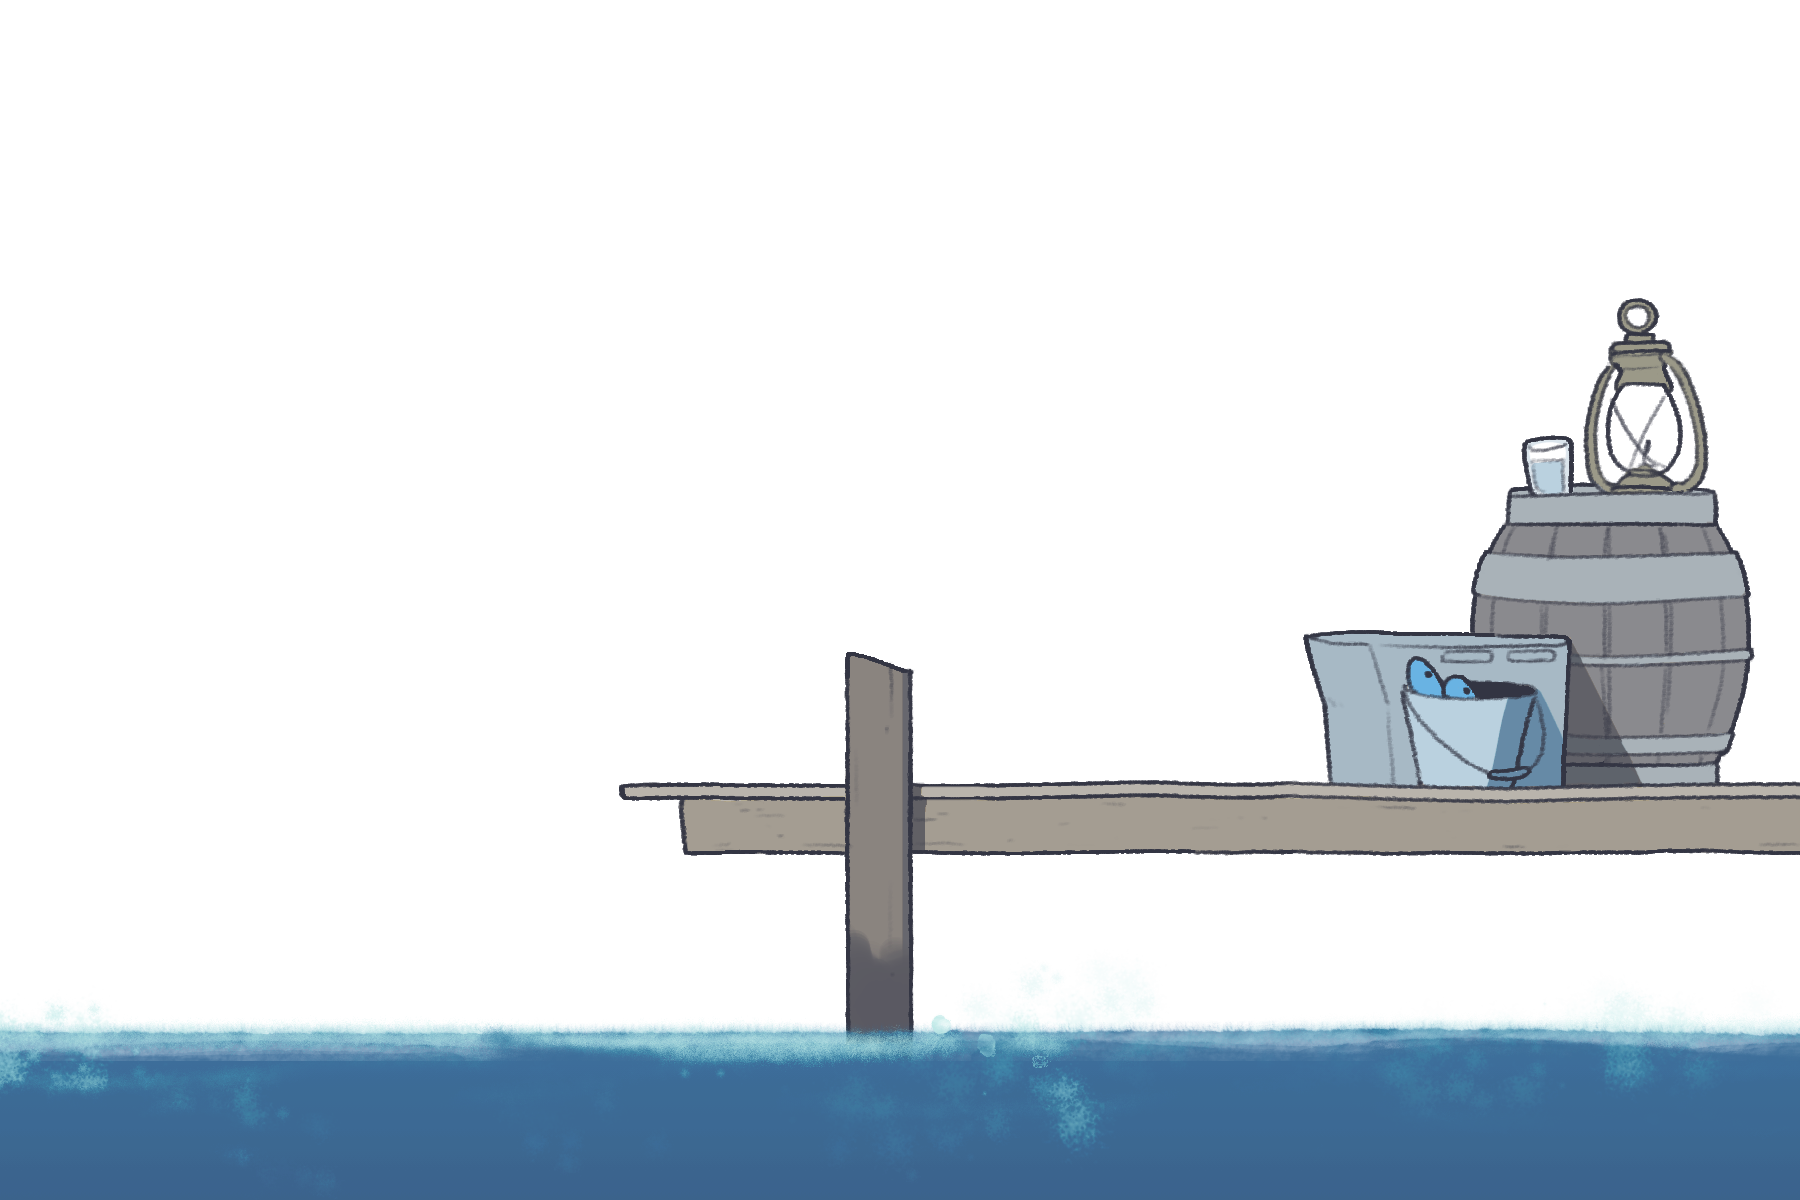
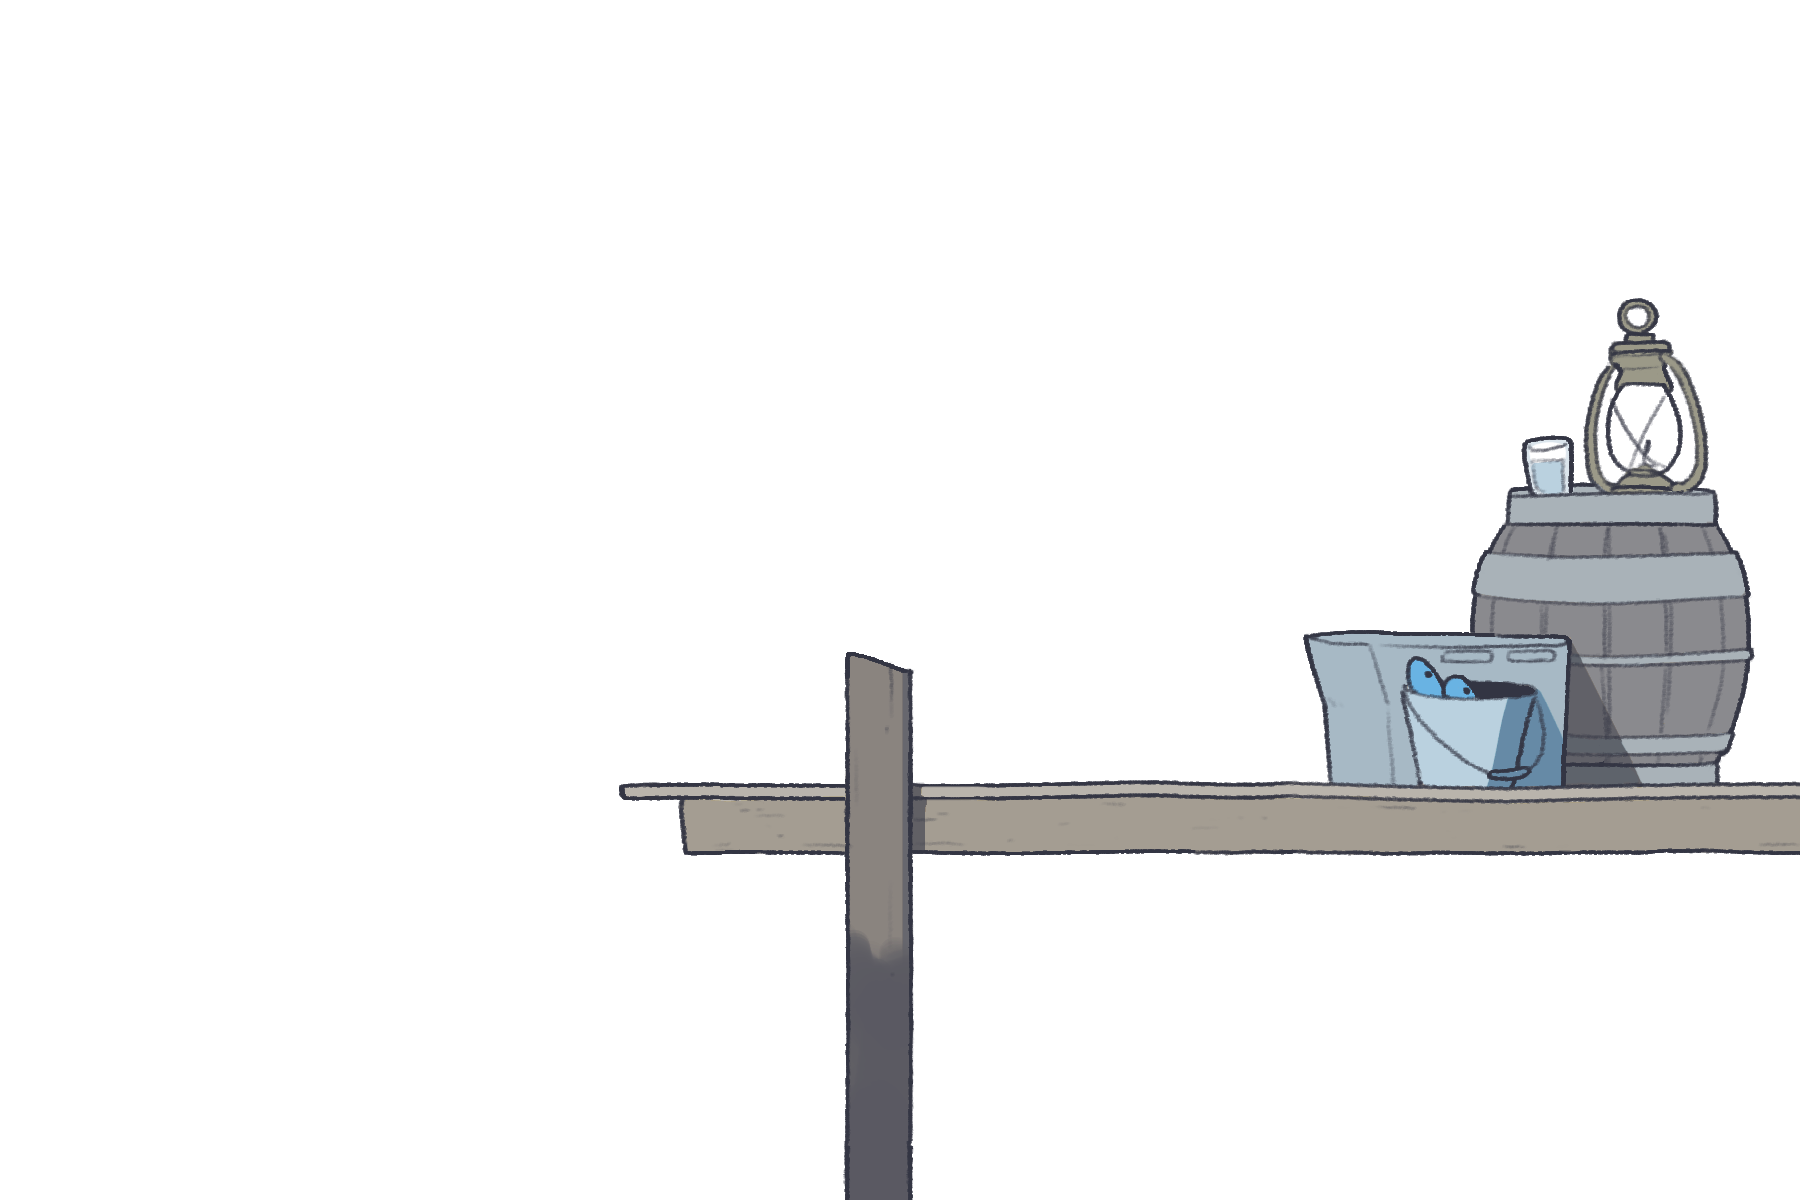
polish navmenu games section / add hover logic

Changed region(s): [[0.0, 0.8325, 1.0, 1.0]]

diff --git a/components/NavMenu.tsx b/components/NavMenu.tsx
@@ -176,6 +176,12 @@ const NavMenu = () => {
     menuRef.current.style.gridTemplateColumns = cols[link];
     }
 
+    if (link === "games") {
+      setFished(true)
+    } else {
+      setFished(false)
+    }
+
   };
 
   useEffect(() => {
@@ -258,6 +264,8 @@ const NavMenu = () => {
   }, [])
 
   const onComic = pathname.startsWith("/mtwim/read");
+
+  const [fished, setFished] = useState(false);
 
   return (
     <div 
@@ -447,8 +455,46 @@ const NavMenu = () => {
             <div 
               onClick={() => handleSelect("games")}
               onMouseEnter={!isPhone ? () => navMenuSelectHandler("games") : undefined}
-              className={`cursor-pointer landing-tile flex justify-center items-center bg-[#8a8b7d] overflow-hidden relative duration-400 ${activeLink === "games" ? "saturate-100 brightness-100" : "saturate-60 brightness-40"}`}
+              className={`
+                cursor-pointer landing-tile flex justify-center items-center
+                overflow-hidden relative duration-400
+                ${activeLink === "games" ? "saturate-100 brightness-100" : "saturate-60 brightness-40"}
+                `}
+              style={{ background: "linear-gradient(to bottom, rgb(105, 166, 208), rgb(105, 166, 208), rgb(117, 180, 216), rgb(160, 233, 255))" }}
             >
+
+              <div className={`relative w-full h-full origin-center`}>
+
+                <img 
+                  src={`/images/games/bg.png`}
+                  className={`
+                    min-h-full object-cover absolute
+                  `}
+                />
+
+                <img 
+                  src={`/images/games/mier-finish-0.png`}
+                  className={`
+                    min-h-full object-cover absolute
+                  `}
+                />
+
+                <img 
+                  src={`/images/games/fish-10.png`}
+                  className={`
+                    min-h-full object-cover absolute
+                    ${fished ? "block" : "hidden"}
+                  `}
+                />
+
+                <img 
+                  src={`/images/games/water.png`}
+                  className={`
+                    min-h-full object-cover absolute waves
+                  `}
+                />
+
+              </div>
               
               <Label activeLink={activeLink} link="games" title="GAMES" desc="play my games here!" />
             </div>

diff --git a/app/globals.css b/app/globals.css
@@ -842,3 +842,29 @@ div[data-youtube-video] iframe {
   transform: translateZ(-10px) scale(1.0);
   z-index: 5;
 }
+
+.waves {
+  animation: waves 5s ease-in-out infinite;
+}
+
+@keyframes waves {
+  0% {
+    transform: scale(1.2) translate(0, 0);
+  }
+
+  25% {
+    transform: scale(1.2) translate(8px, -6px);
+  }
+
+  50% {
+    transform: scale(1.2) translate(-7px, 7px);
+  }
+
+  75% {
+    transform: scale(1.2) translate(6px, -8px);
+  }
+
+  100% {
+    transform: scale(1.2) translate(0, 0);
+  }
+}